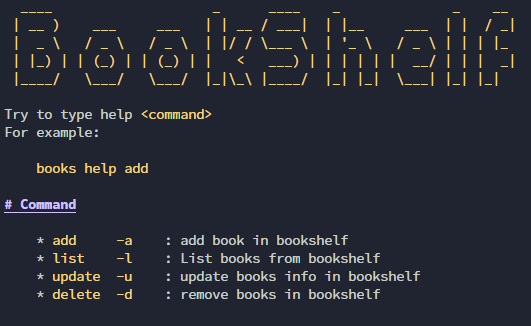
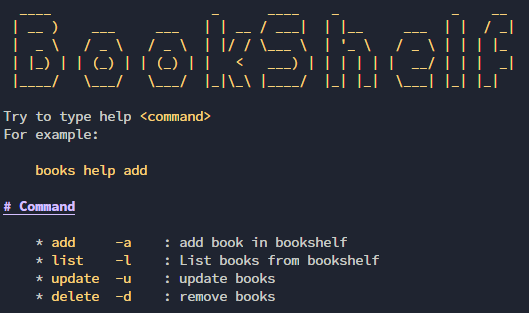
typo

diff --git a/app/help.md b/app/help.md
@@ -4,7 +4,7 @@ For example:
 books help add
 ```
 # Command
-- `add`     `-a`    : add book in bookshelf
+- `add`     `-a`    : add book into bookshelf
 - `list`    `-l`    : List books from bookshelf
 - `update`  `-u`    : update books
 - `delete`  `-d`    : remove books
